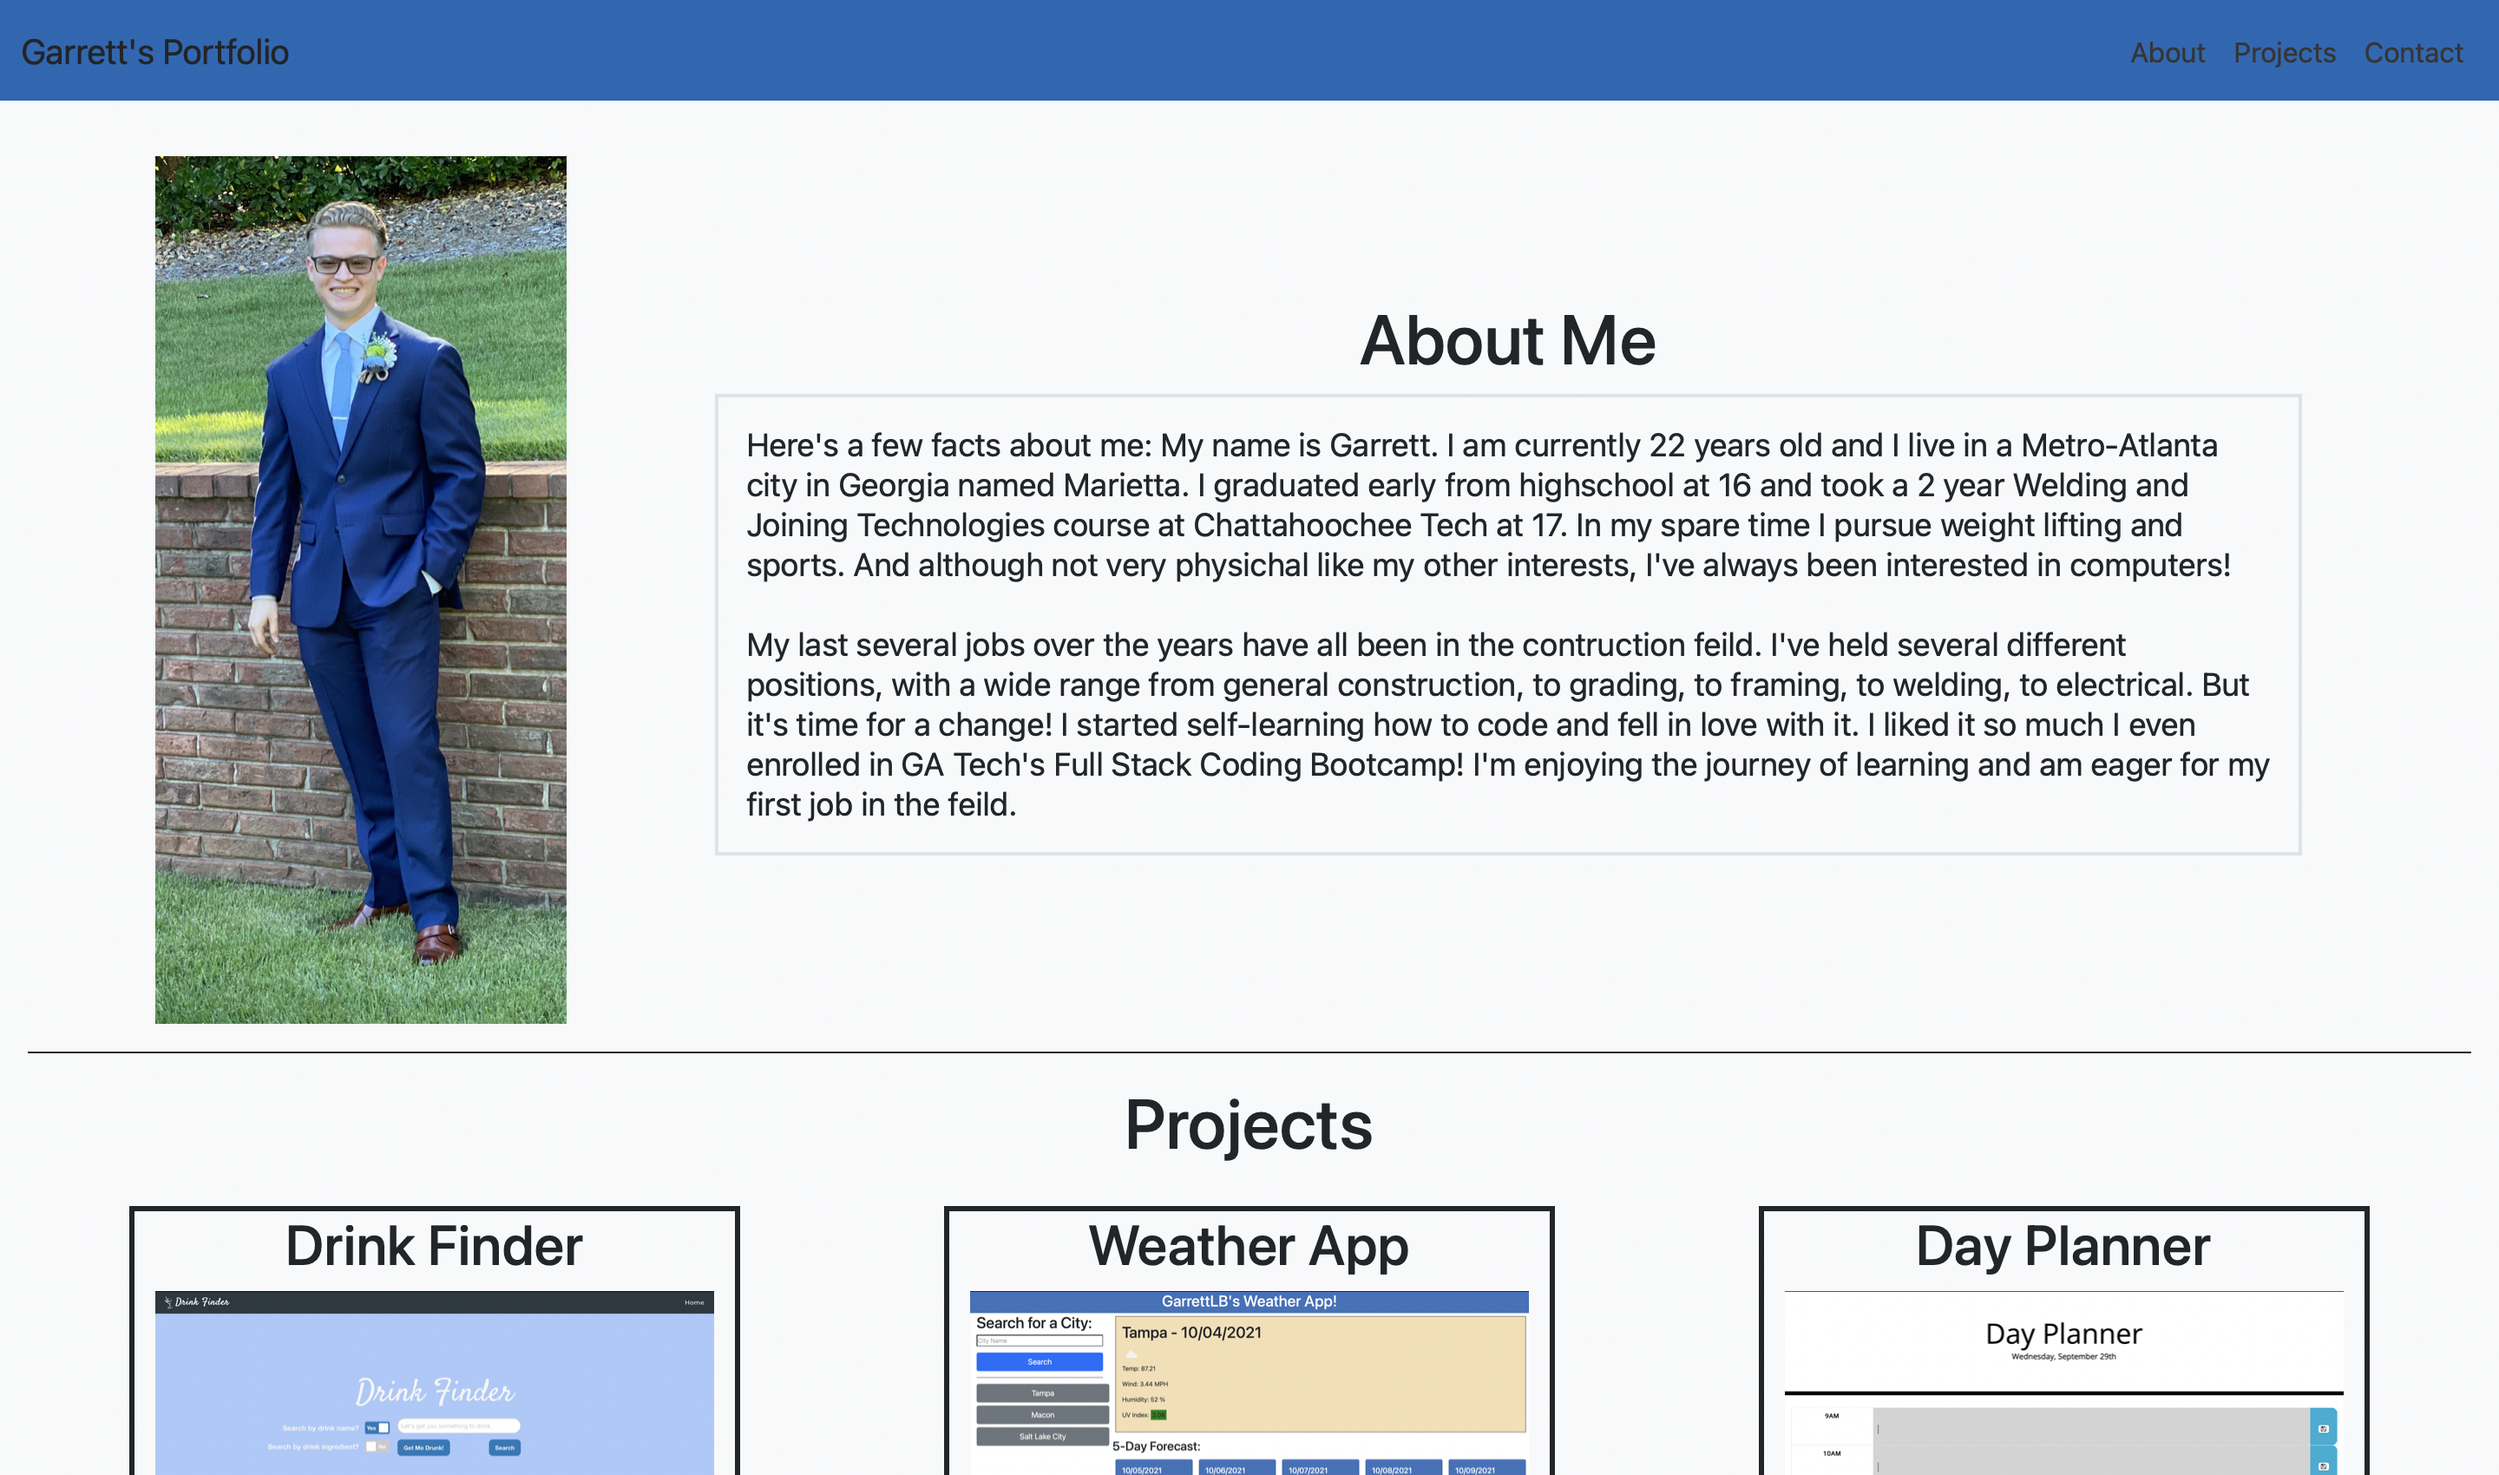
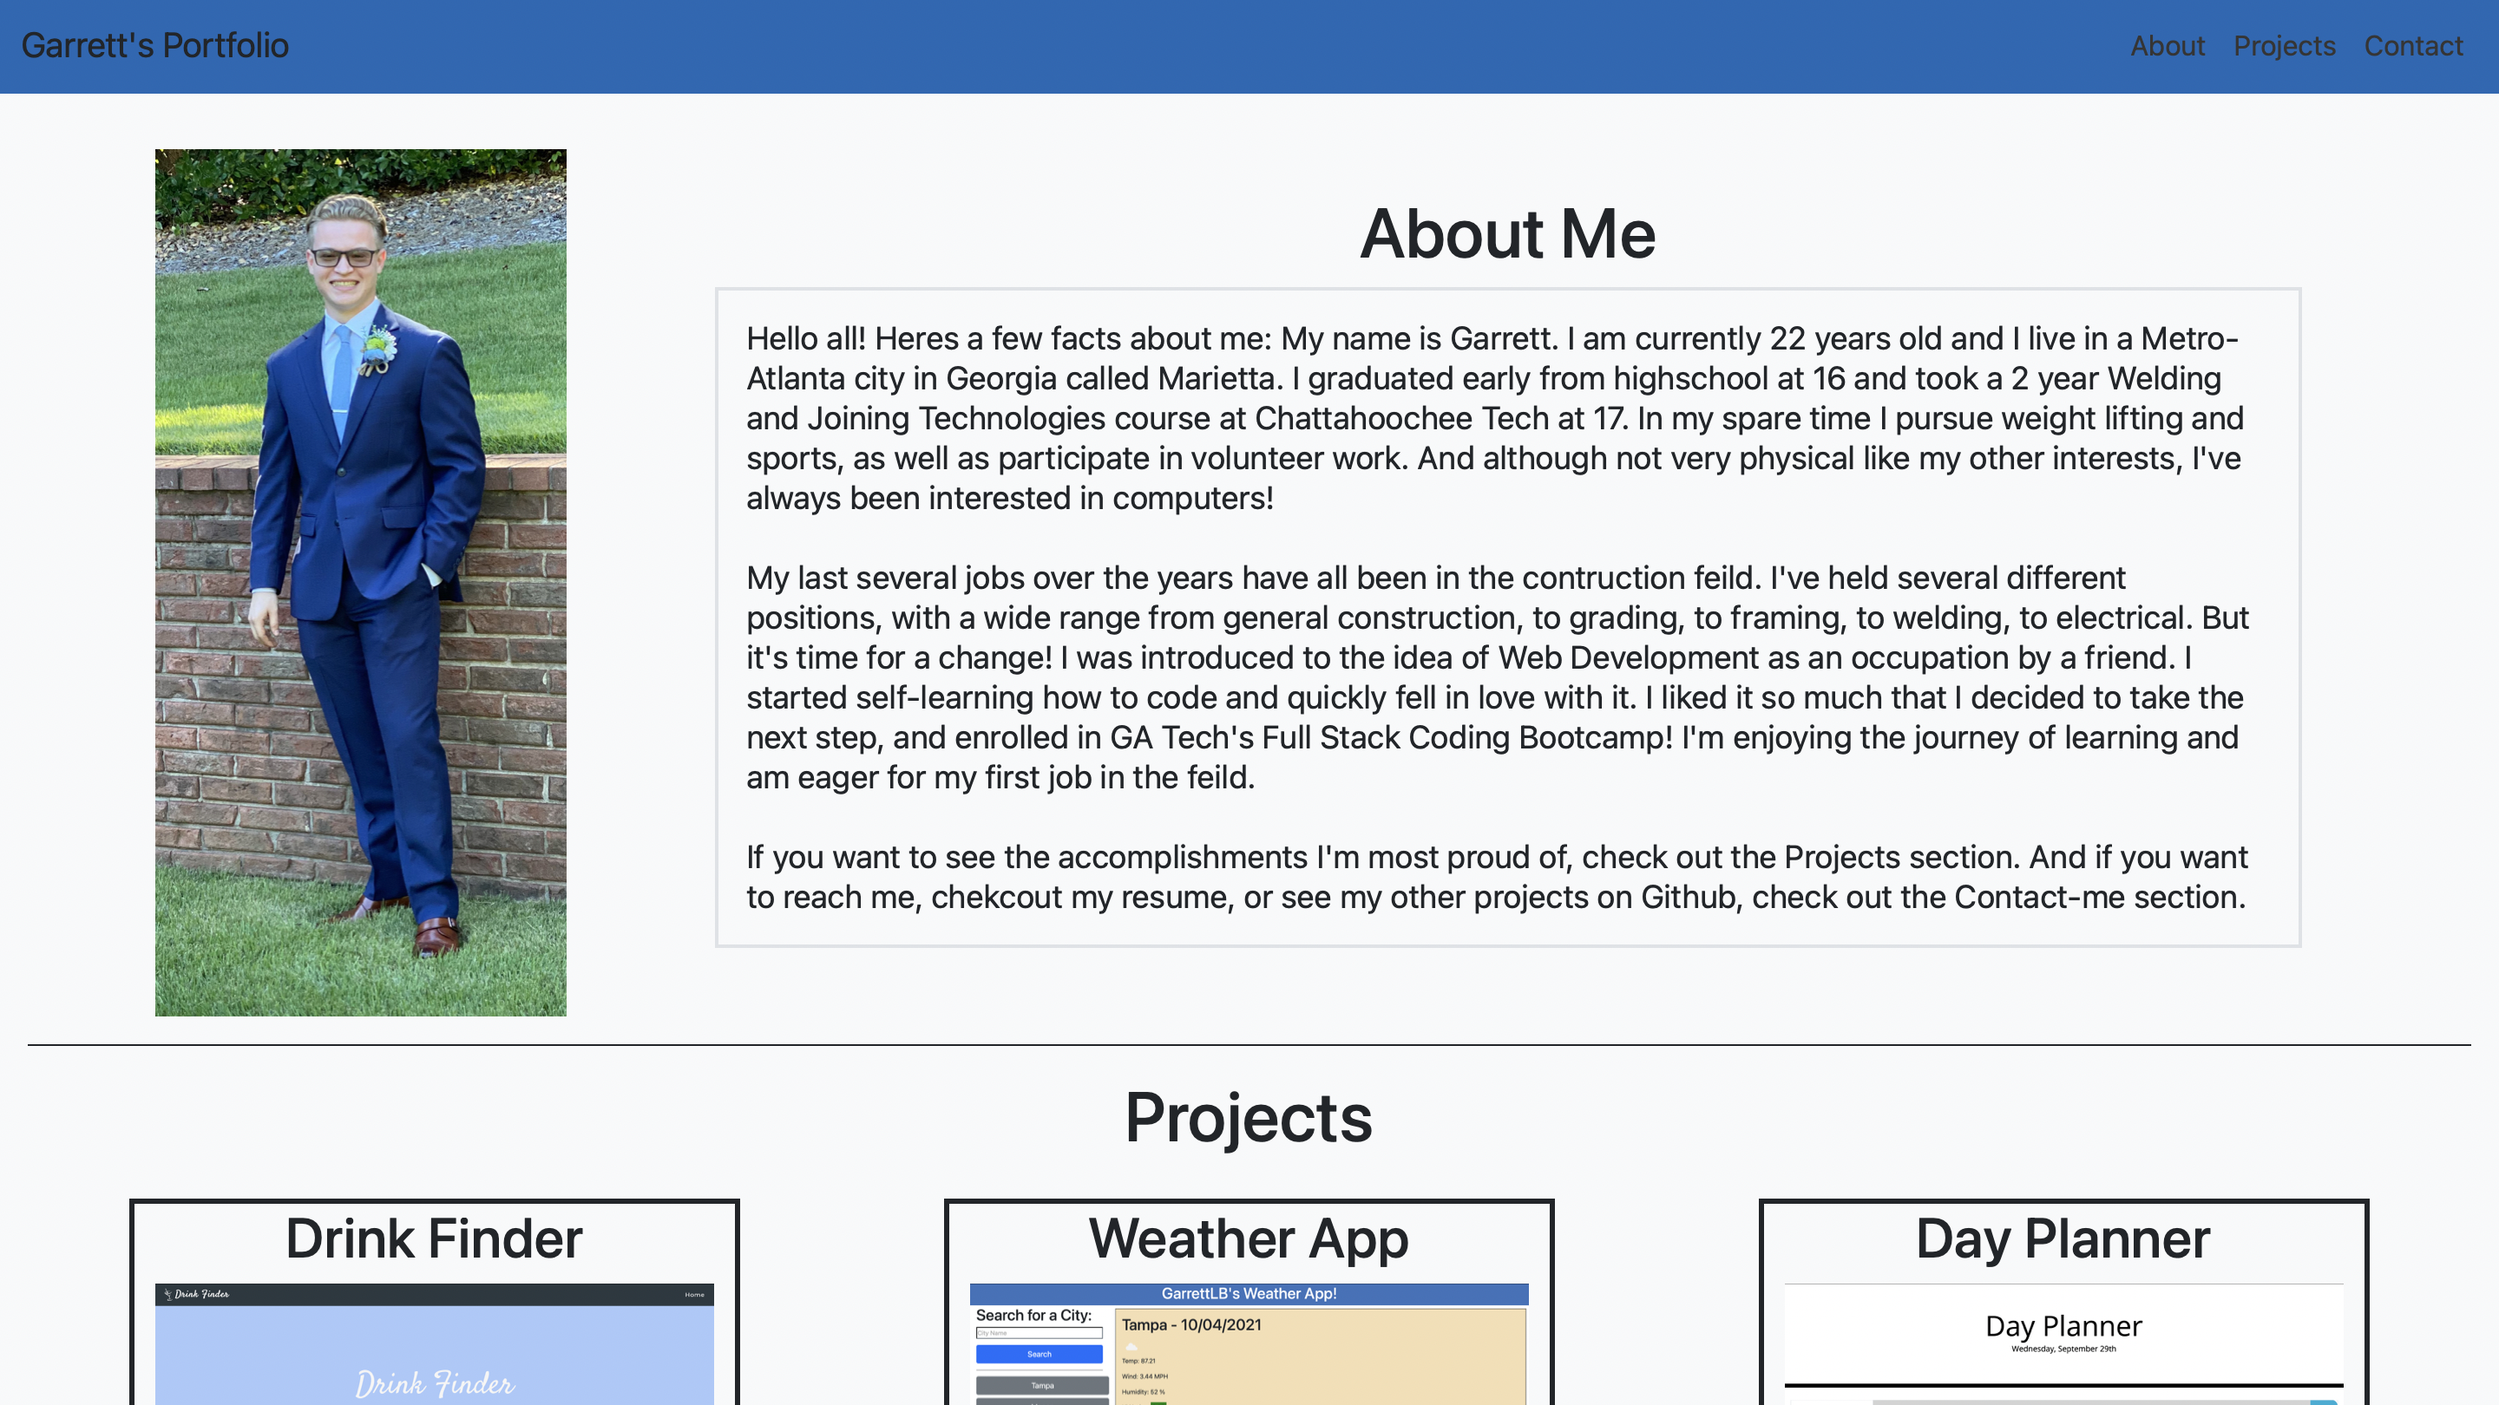
more CSS adjustments, updated About Me section

diff --git a/index.html b/index.html
@@ -34,16 +34,19 @@
         <h1 class="text-center">About Me</h1>
 
         <p class="border border border-2 p-height p-3">
-          Here's a few facts about me: My name is Garrett. I am currently 22 years old and I live in a Metro-Atlanta city in Georgia named Marietta. 
+          Hello all! Heres a few facts about me: My name is Garrett. I am currently 22 years old and I live in a Metro-Atlanta city in Georgia called Marietta. 
           I graduated early from highschool at 16 and took a 2 year Welding and Joining Technologies course at Chattahoochee Tech at 17. 
-          In my spare time I pursue weight lifting and sports. 
-          And although not very physichal like my other interests, I've always been interested in computers!
+          In my spare time I pursue weight lifting and sports, as well as participate in volunteer work. 
+          And although not very physical like my other interests, I've always been interested in computers!
           <br><br>
           My last several jobs over the years have all been in the contruction feild. 
           I've held several different positions, with a wide range from general construction, to grading, to framing, to welding, to electrical.
-          But it's time for a change! I started self-learning how to code and fell in love with it. 
-          I liked it so much I even enrolled in GA Tech's Full Stack Coding Bootcamp! 
-          I'm enjoying the journey of learning and am eager for my first job in the feild.
+          But it's time for a change! I was introduced to the idea of Web Development as an occupation by a friend. I started self-learning how to code and quickly fell in love with it. 
+          I liked it so much that I decided to take the next step, and enrolled in GA Tech's Full Stack Coding Bootcamp! 
+          I'm enjoying the journey of learning and am eager for my first job in the feild. 
+          <br><br>
+          If you want to see the accomplishments I'm most proud of, check out the Projects section.
+          And if you want to reach me, chekcout my resume, or see my other projects on Github, check out the Contact-me section.
         </p>
       </div>
     </section>
@@ -93,7 +96,7 @@
     </section>
 
     <footer>
-      <h4 class="text-center p-3">Thanks for viewing my page!</h4>
+      <h6 class="text-center p-3">Thanks for viewing my page!</h6>
     </footer>
 
     <script src="https://cdn.jsdelivr.net/npm/bootstrap@5.1.3/dist/js/bootstrap.bundle.min.js" integrity="sha384-ka7Sk0Gln4gmtz2MlQnikT1wXgYsOg+OMhuP+IlRH9sENBO0LRn5q+8nbTov4+1p" crossorigin="anonymous"></script>  

diff --git a/README.md b/README.md
@@ -1,5 +1,9 @@
 # My-Portfolio
 
+My official portfolio page!
+
+Designed from absolute scratch by yours truly, using custom CSS and HTML of my own along with Bootstrap.
+
 Screenshot:
 <img src="./assets/images/Screenshot.png" alt="Screenshot">
 
